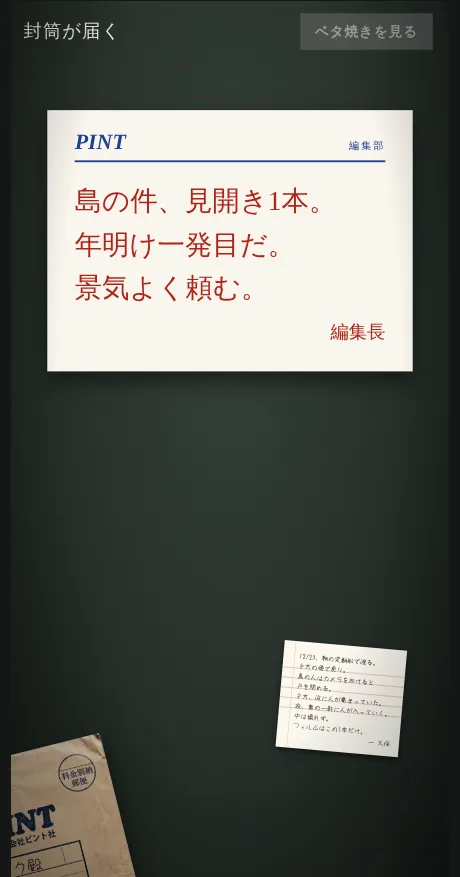
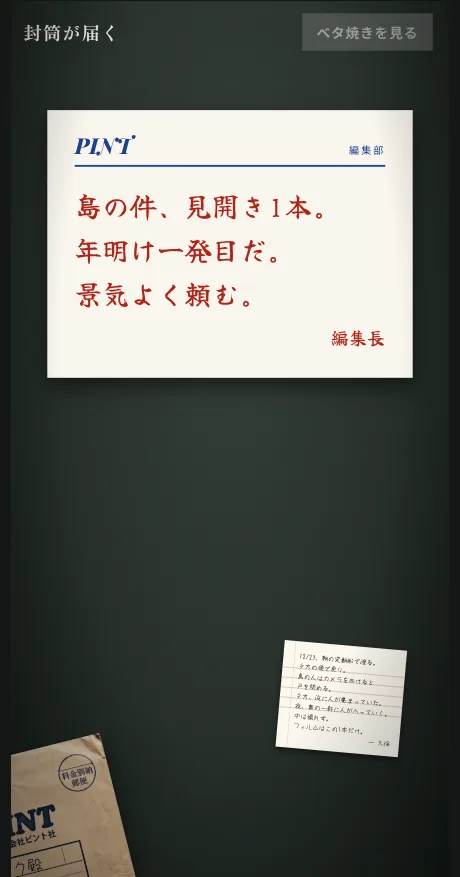
WIP: ワラガクをOGP風サムネに、MIOのサムネを高さ揃え+島の画面に、日本語表示を直した画像へ差し替え
Claude-Session: https://claude.ai/code/session_011VMfTZXirKtMEuRbJRTVcv

diff --git a/wip/mio/index.html b/wip/mio/index.html
@@ -45,7 +45,7 @@ p,blockquote,.bd{font-family:'Zen Kaku Gothic New','Hiragino Sans',sans-serif;le
 
 <section style="display: flex; flex-direction: column; gap: 20px">
 <div style="color: #5f5a50"><a href="/#wip" style="text-decoration: none">C:\NAKATA\WIP&gt;</a> <span style="color: #161513">MIOのいる島</span></div>
-<div style="aspect-ratio: 16 / 9; background: #161513; border: 3px solid #161513; overflow: hidden; line-height: 0"><img src="/img/wip-mio.jpg" alt="MIOのいる島のタイトル、部屋、MIOの画面" style="width: 100%; height: 100%; object-fit: cover"></div>
+<div style="aspect-ratio: 16 / 9; background: #161513; border: 3px solid #161513; overflow: hidden; line-height: 0"><img src="/img/wip-mio.jpg" alt="MIOのいる島のタイトル、島、部屋" style="width: 100%; height: 100%; object-fit: cover"></div>
 <div style="display: flex; flex-wrap: wrap; gap: 28px; align-items: flex-start; padding-top: 8px">
 <div style="flex: 999 1 520px; min-width: 0; display: flex; flex-direction: column; gap: 10px">
 <div style="display: flex; justify-content: space-between; font-family: 'VT323', monospace; font-size: 22px"><span>No.--</span><span>[SOON]</span></div>
@@ -66,8 +66,9 @@ p,blockquote,.bd{font-family:'Zen Kaku Gothic New','Hiragino Sans',sans-serif;le
 <div style="display: flex; gap: 28px; overflow-x: auto; scroll-snap-type: x mandatory; padding: 4px 4px 20px">
 <figure style="flex: 0 0 230px; scroll-snap-align: start; margin: 0"><div style="position: relative; background: #161513; border-radius: 38px; padding: 11px; box-shadow: 6px 6px 0 #c9c1ae"><div style="position: relative; border-radius: 28px; overflow: hidden; aspect-ratio: 460 / 877; background: #161513; line-height: 0"><img src="/img/wip-mio-1.webp" alt="MIOのいる島のスクリーンショット 1。タイトル画面" loading="lazy" style="width: 100%; height: 100%; object-fit: cover; display: block"></div></div></figure>
 <figure style="flex: 0 0 230px; scroll-snap-align: start; margin: 0"><div style="position: relative; background: #161513; border-radius: 38px; padding: 11px; box-shadow: 6px 6px 0 #c9c1ae"><div style="position: relative; border-radius: 28px; overflow: hidden; aspect-ratio: 460 / 877; background: #161513; line-height: 0"><img src="/img/wip-mio-2.webp" alt="MIOのいる島のスクリーンショット 2。部屋と、MIOからの通知" loading="lazy" style="width: 100%; height: 100%; object-fit: cover; display: block"></div></div></figure>
-<figure style="flex: 0 0 230px; scroll-snap-align: start; margin: 0"><div style="position: relative; background: #161513; border-radius: 38px; padding: 11px; box-shadow: 6px 6px 0 #c9c1ae"><div style="position: relative; border-radius: 28px; overflow: hidden; aspect-ratio: 460 / 877; background: #161513; line-height: 0"><img src="/img/wip-mio-3.webp" alt="MIOのいる島のスクリーンショット 3。MIOの画面" loading="lazy" style="width: 100%; height: 100%; object-fit: cover; display: block"></div></div></figure>
-<figure style="flex: 0 0 230px; scroll-snap-align: start; margin: 0"><div style="position: relative; background: #161513; border-radius: 38px; padding: 11px; box-shadow: 6px 6px 0 #c9c1ae"><div style="position: relative; border-radius: 28px; overflow: hidden; aspect-ratio: 460 / 877; background: #161513; line-height: 0"><img src="/img/wip-mio-4.webp" alt="MIOのいる島のスクリーンショット 4。部屋を調べる" loading="lazy" style="width: 100%; height: 100%; object-fit: cover; display: block"></div></div></figure>
+<figure style="flex: 0 0 230px; scroll-snap-align: start; margin: 0"><div style="position: relative; background: #161513; border-radius: 38px; padding: 11px; box-shadow: 6px 6px 0 #c9c1ae"><div style="position: relative; border-radius: 28px; overflow: hidden; aspect-ratio: 460 / 877; background: #161513; line-height: 0"><img src="/img/wip-mio-3.webp" alt="MIOのいる島のスクリーンショット 3。島の浜辺。MIOから今日の目標が届く" loading="lazy" style="width: 100%; height: 100%; object-fit: cover; display: block"></div></div></figure>
+<figure style="flex: 0 0 230px; scroll-snap-align: start; margin: 0"><div style="position: relative; background: #161513; border-radius: 38px; padding: 11px; box-shadow: 6px 6px 0 #c9c1ae"><div style="position: relative; border-radius: 28px; overflow: hidden; aspect-ratio: 460 / 877; background: #161513; line-height: 0"><img src="/img/wip-mio-4.webp" alt="MIOのいる島のスクリーンショット 4。島の岩場" loading="lazy" style="width: 100%; height: 100%; object-fit: cover; display: block"></div></div></figure>
+<figure style="flex: 0 0 230px; scroll-snap-align: start; margin: 0"><div style="position: relative; background: #161513; border-radius: 38px; padding: 11px; box-shadow: 6px 6px 0 #c9c1ae"><div style="position: relative; border-radius: 28px; overflow: hidden; aspect-ratio: 460 / 877; background: #161513; line-height: 0"><img src="/img/wip-mio-5.webp" alt="MIOのいる島のスクリーンショット 5。MIOの画面" loading="lazy" style="width: 100%; height: 100%; object-fit: cover; display: block"></div></div></figure>
 </div>
 </section>
 
